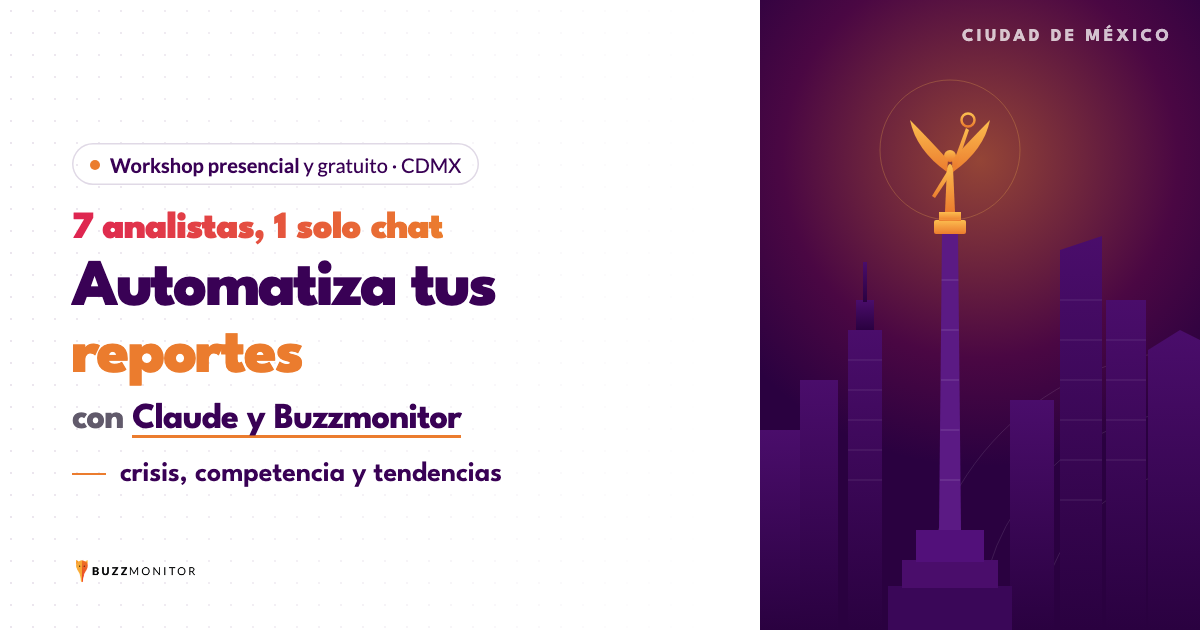
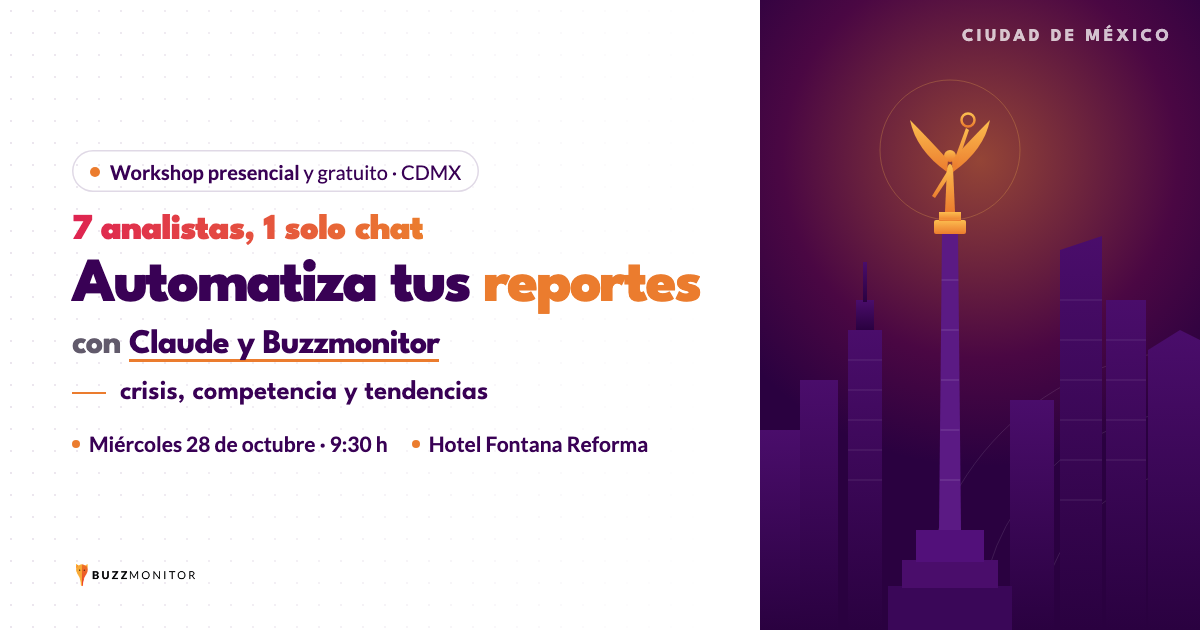
Atualizar LP workshop CDMX com data, hora e local confirmados (#799)

diff --git a/landing-pages/buzzmonitor/workshop-reportes-ia-cdmx-octubre-2026/index.html b/landing-pages/buzzmonitor/workshop-reportes-ia-cdmx-octubre-2026/index.html
@@ -18,7 +18,7 @@ j=d.createElement(s),dl=l!='dataLayer'?'&l='+l:'';j.async=true;j.src=
 <link rel="alternate" hreflang="es-419" href="https://evento.buzzmonitor.com/workshop-reportes-ia-cdmx-octubre-2026" />
 <link rel="alternate" hreflang="x-default" href="https://evento.buzzmonitor.com/workshop-reportes-ia-cdmx-octubre-2026" />
 
-<meta name="description" content="Workshop presencial y gratuito en Ciudad de México: arma reportes de crisis, competencia y tendencias con Claude y las Skills de Buzzmonitor, sin escribir prompts." />
+<meta name="description" content="Workshop presencial y gratuito en Ciudad de México, 28 de octubre: arma reportes de crisis, competencia y tendencias con Claude y las Skills de Buzzmonitor, sin escribir prompts." />
 <meta name="robots" content="index, follow" />
 <meta name="author" content="Buzzmonitor" />
 
@@ -27,15 +27,15 @@ j=d.createElement(s),dl=l!='dataLayer'?'&l='+l:'';j.async=true;j.src=
 <meta property="og:locale" content="es_LA" />
 <meta property="og:url" content="https://evento.buzzmonitor.com/workshop-reportes-ia-cdmx-octubre-2026" />
 <meta property="og:title" content="7 analistas, 1 solo chat | Automatiza tus reportes con Claude y Buzzmonitor: crisis, competencia y tendencias" />
-<meta property="og:description" content="Workshop presencial y gratuito en Ciudad de México. Reportes de crisis, competencia y tendencias con Claude y Buzzmonitor." />
+<meta property="og:description" content="Workshop presencial y gratuito en Ciudad de México, 28 de octubre. Reportes de crisis, competencia y tendencias con Claude y Buzzmonitor." />
 <meta property="og:image" content="https://evento.buzzmonitor.com/assets/buzzmonitor/og-workshop-reportes-ia-cdmx-octubre-2026.png" />
 <meta property="og:image:width" content="1200" />
 <meta property="og:image:height" content="630" />
-<meta property="og:image:alt" content="7 analistas, 1 solo chat. Automatiza tus reportes con Claude y Buzzmonitor: crisis, competencia y tendencias. Workshop presencial y gratuito de Buzzmonitor en Ciudad de México" />
+<meta property="og:image:alt" content="7 analistas, 1 solo chat. Automatiza tus reportes con Claude y Buzzmonitor: crisis, competencia y tendencias. Workshop presencial y gratuito de Buzzmonitor en Ciudad de México, 28 de octubre" />
 
 <meta name="twitter:card" content="summary_large_image" />
 <meta name="twitter:title" content="7 analistas, 1 solo chat | Automatiza tus reportes con Claude y Buzzmonitor: crisis, competencia y tendencias" />
-<meta name="twitter:description" content="Workshop presencial y gratuito en Ciudad de México. Reportes de crisis, competencia y tendencias con Claude y Buzzmonitor." />
+<meta name="twitter:description" content="Workshop presencial y gratuito en Ciudad de México, 28 de octubre. Reportes de crisis, competencia y tendencias con Claude y Buzzmonitor." />
 <meta name="twitter:image" content="https://evento.buzzmonitor.com/assets/buzzmonitor/og-workshop-reportes-ia-cdmx-octubre-2026.png" />
 
 <script type="application/ld+json">
@@ -60,21 +60,24 @@ j=d.createElement(s),dl=l!='dataLayer'?'&l='+l:'';j.async=true;j.src=
       "name": "7 analistas, 1 solo chat | Automatiza tus reportes con Claude y Buzzmonitor: crisis, competencia y tendencias",
       "inLanguage": "es-419",
       "isPartOf": { "@id": "https://getbuzzmonitor.com/es/#organization" },
-      "description": "Workshop presencial y gratuito en Ciudad de México: arma reportes de crisis, competencia y tendencias con Claude y las Skills de Buzzmonitor, sin escribir prompts."
+      "description": "Workshop presencial y gratuito en Ciudad de México, 28 de octubre: arma reportes de crisis, competencia y tendencias con Claude y las Skills de Buzzmonitor, sin escribir prompts."
     },
     {
       "@type": "Event",
       "name": "7 analistas, 1 solo chat | Automatiza tus reportes con Claude y Buzzmonitor: crisis, competencia y tendencias",
       "description": "Workshop 7 analistas, 1 solo chat: automatiza reportes de crisis, competencia y tendencias con Claude y las Skills de Buzzmonitor. Taller presencial, gratuito y hands-on.",
+      "startDate": "2026-10-28T09:30:00-06:00",
       "eventAttendanceMode": "https://schema.org/OfflineEventAttendanceMode",
       "eventStatus": "https://schema.org/EventScheduled",
       "isAccessibleForFree": true,
       "location": {
         "@type": "Place",
-        "name": "Por definir",
+        "name": "Hotel Fontana Reforma",
         "address": {
           "@type": "PostalAddress",
+          "streetAddress": "Av. Paseo de la Reforma 24, Colonia Centro, Cuauhtémoc",
           "addressLocality": "Ciudad de México",
+          "addressRegion": "CDMX",
           "addressCountry": "MX"
         }
       },
@@ -685,7 +688,7 @@ height="0" width="0" style="display:none;visibility:hidden"></iframe></noscript>
       <img src="./assets/logo-header.png" alt="" width="237" height="56" />
     </a>
     <div class="navbar__meta">
-      <span class="navbar__tag"><span class="live-dot" aria-hidden="true"></span>CDMX · Fecha por definir</span>
+      <span class="navbar__tag"><span class="live-dot" aria-hidden="true"></span>CDMX · 28 oct · 9:30 h</span>
       <a href="#registro" class="btn btn--ghost">Reservar mi lugar</a>
     </div>
   </div>
@@ -727,8 +730,8 @@ height="0" width="0" style="display:none;visibility:hidden"></iframe></noscript>
             <span class="hero__limited"><span class="live-dot" aria-hidden="true"></span>Cupos limitados</span>
           </div>
           <ul class="facts load" style="--d:10">
-            <li><svg width="20" height="20" viewBox="0 0 24 24" fill="none" aria-hidden="true"><rect x="3" y="5" width="18" height="16" rx="2.5" stroke="#EB7C2E" stroke-width="1.9"/><path d="M3 9.5h18M8 3v3.5M16 3v3.5" stroke="#EB7C2E" stroke-width="1.9" stroke-linecap="round"/></svg>Fecha y hora por definir</li>
-            <li><svg width="20" height="20" viewBox="0 0 24 24" fill="none" aria-hidden="true"><path d="M12 22s7-7.58 7-13a7 7 0 10-14 0c0 5.42 7 13 7 13z" stroke="#EB7C2E" stroke-width="1.9"/><circle cx="12" cy="9" r="2.4" stroke="#EB7C2E" stroke-width="1.9"/></svg>Lugar por definir, CDMX</li>
+            <li><svg width="20" height="20" viewBox="0 0 24 24" fill="none" aria-hidden="true"><rect x="3" y="5" width="18" height="16" rx="2.5" stroke="#EB7C2E" stroke-width="1.9"/><path d="M3 9.5h18M8 3v3.5M16 3v3.5" stroke="#EB7C2E" stroke-width="1.9" stroke-linecap="round"/></svg>Miércoles 28 de octubre · 9:30 h</li>
+            <li><svg width="20" height="20" viewBox="0 0 24 24" fill="none" aria-hidden="true"><path d="M12 22s7-7.58 7-13a7 7 0 10-14 0c0 5.42 7 13 7 13z" stroke="#EB7C2E" stroke-width="1.9"/><circle cx="12" cy="9" r="2.4" stroke="#EB7C2E" stroke-width="1.9"/></svg>Hotel Fontana Reforma, CDMX</li>
             <li><svg width="20" height="20" viewBox="0 0 24 24" fill="none" aria-hidden="true"><rect x="3" y="4" width="18" height="12" rx="2" stroke="#EB7C2E" stroke-width="1.9"/><path d="M1.5 20h21" stroke="#EB7C2E" stroke-width="1.9" stroke-linecap="round"/></svg>Gratis · Trae tu computadora</li>
           </ul>
         </div>
@@ -819,8 +822,8 @@ height="0" width="0" style="display:none;visibility:hidden"></iframe></noscript>
         <h2 id="registro-title">Aparta tu lugar</h2>
         <p class="lede">Es presencial, gratis y con las manos en el teclado. Hay pocos cupos.</p>
         <ul class="reg-list">
-          <li><span class="ico" aria-hidden="true"><svg width="20" height="20" viewBox="0 0 24 24" fill="none"><rect x="3" y="5" width="18" height="16" rx="2.5" stroke="#390155" stroke-width="1.8"/><path d="M3 9.5h18M8 3v3.5M16 3v3.5" stroke="#390155" stroke-width="1.8" stroke-linecap="round"/></svg></span>Fecha y hora por definir</li>
-          <li><span class="ico" aria-hidden="true"><svg width="20" height="20" viewBox="0 0 24 24" fill="none"><path d="M12 22s7-7.58 7-13a7 7 0 10-14 0c0 5.42 7 13 7 13z" stroke="#390155" stroke-width="1.8"/><circle cx="12" cy="9" r="2.4" stroke="#390155" stroke-width="1.8"/></svg></span>Lugar por definir, Ciudad de México</li>
+          <li><span class="ico" aria-hidden="true"><svg width="20" height="20" viewBox="0 0 24 24" fill="none"><rect x="3" y="5" width="18" height="16" rx="2.5" stroke="#390155" stroke-width="1.8"/><path d="M3 9.5h18M8 3v3.5M16 3v3.5" stroke="#390155" stroke-width="1.8" stroke-linecap="round"/></svg></span>Miércoles 28 de octubre, 9:30 h</li>
+          <li><span class="ico" aria-hidden="true"><svg width="20" height="20" viewBox="0 0 24 24" fill="none"><path d="M12 22s7-7.58 7-13a7 7 0 10-14 0c0 5.42 7 13 7 13z" stroke="#390155" stroke-width="1.8"/><circle cx="12" cy="9" r="2.4" stroke="#390155" stroke-width="1.8"/></svg></span>Hotel Fontana Reforma, Av. Paseo de la Reforma 24, Colonia Centro, Cuauhtémoc, Ciudad de México</li>
           <li><span class="ico" aria-hidden="true"><svg width="20" height="20" viewBox="0 0 24 24" fill="none"><rect x="3" y="4" width="18" height="12" rx="2" stroke="#390155" stroke-width="1.8"/><path d="M1.5 20h21" stroke="#390155" stroke-width="1.8" stroke-linecap="round"/></svg></span>Trae tu computadora cargada para las actividades prácticas</li>
         </ul>
       </div>
@@ -984,7 +987,7 @@ height="0" width="0" style="display:none;visibility:hidden"></iframe></noscript>
     <span class="grain" aria-hidden="true"></span>
     <div class="wrap cierre__inner reveal">
       <span class="urgency-tag">Cupos limitados</span>
-      <h2 id="cierre-title">Deja de armar reportes.</h2>
+      <h2 id="cierre-title">El 28 de octubre, deja de armar reportes.</h2>
       <p>Ven a la Ciudad de México a ver las 7 Skills de Buzzmonitor trabajando sobre datos reales. Te vas sabiendo pedir tu próximo reporte en un solo chat.</p>
       <a href="#registro" class="btn btn--light magnetic">Reservar mi lugar
         <svg width="18" height="18" viewBox="0 0 24 24" fill="none" aria-hidden="true"><path d="M5 12h14M13 6l6 6-6 6" stroke="currentColor" stroke-width="2.2" stroke-linecap="round" stroke-linejoin="round"/></svg>

diff --git a/landing-pages/buzzmonitor/workshop-reportes-ia-cdmx-octubre-2026/README.md b/landing-pages/buzzmonitor/workshop-reportes-ia-cdmx-octubre-2026/README.md
@@ -22,6 +22,10 @@ Buscar `[` em `index.html` e `copy.txt`: `[VENUE]`, `[DIRECCIÓN]`, `[DÍA]`, `[
 - v2: copy toda reenfocada em "automatizar reportes de Social Media con IA" (pedido do Victor, 23/09).
 - "computadora" (uso do México; a de Bogotá usa "computador").
 
+## v8 (2026-10-13) — data e local confirmados
+
+Quarta 28 de outubro, 9:30 h, Hotel Fontana Reforma (Av. Paseo de la Reforma 24, Colonia Centro, Cuauhtémoc, CDMX). Aplicado no header, hero, registro, cierre ("El 28 de octubre, deja de armar reportes."), meta descriptions, JSON-LD Event (startDate + location) e na OG (linha de data e local). Speaker segue "Por definir".
+
 ## v7 (2026-10-07) — direcao premium
 
 Pedido: menos "candy cane". Roxo dominante + laranja so como acento; sem blocos rosa nem pilulas coloridas (H1: "reportes" em laranja, "Claude y Buzzmonitor" com sublinhado fino); formas do brandbook em linha fina (1.5px) e glow suave no lugar de formas solidas; kicker = linha + ponto; ticker sem contorno; bolhas/chips/botoes em roxo; borda fina estatica no form; cierre roxo profundo (#2A0140) com glow e arcos finos, tag "Cupos limitados" em contorno. Pesos tipograficos de 900 para 800/700. Bloco CSS "PREMIUM (v7)" no fim do <style>. Versao anterior salva no scratchpad (index-candy.html).
